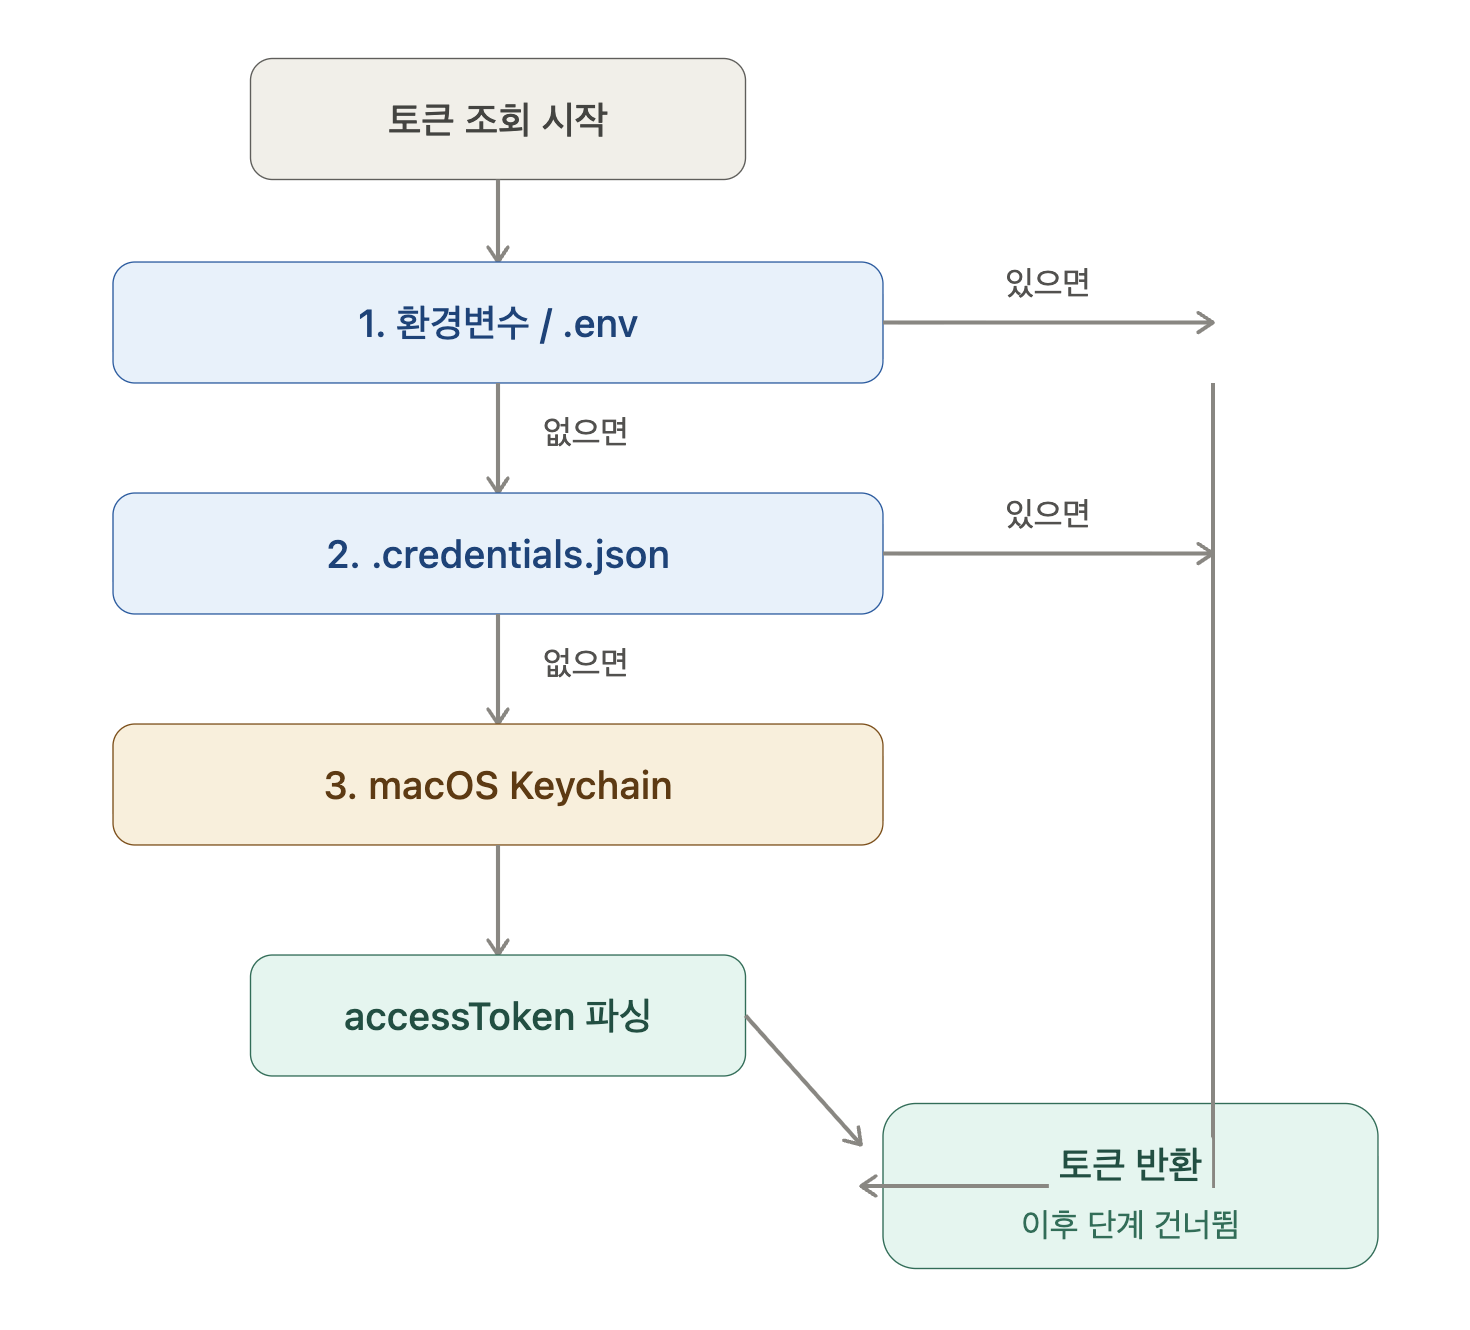
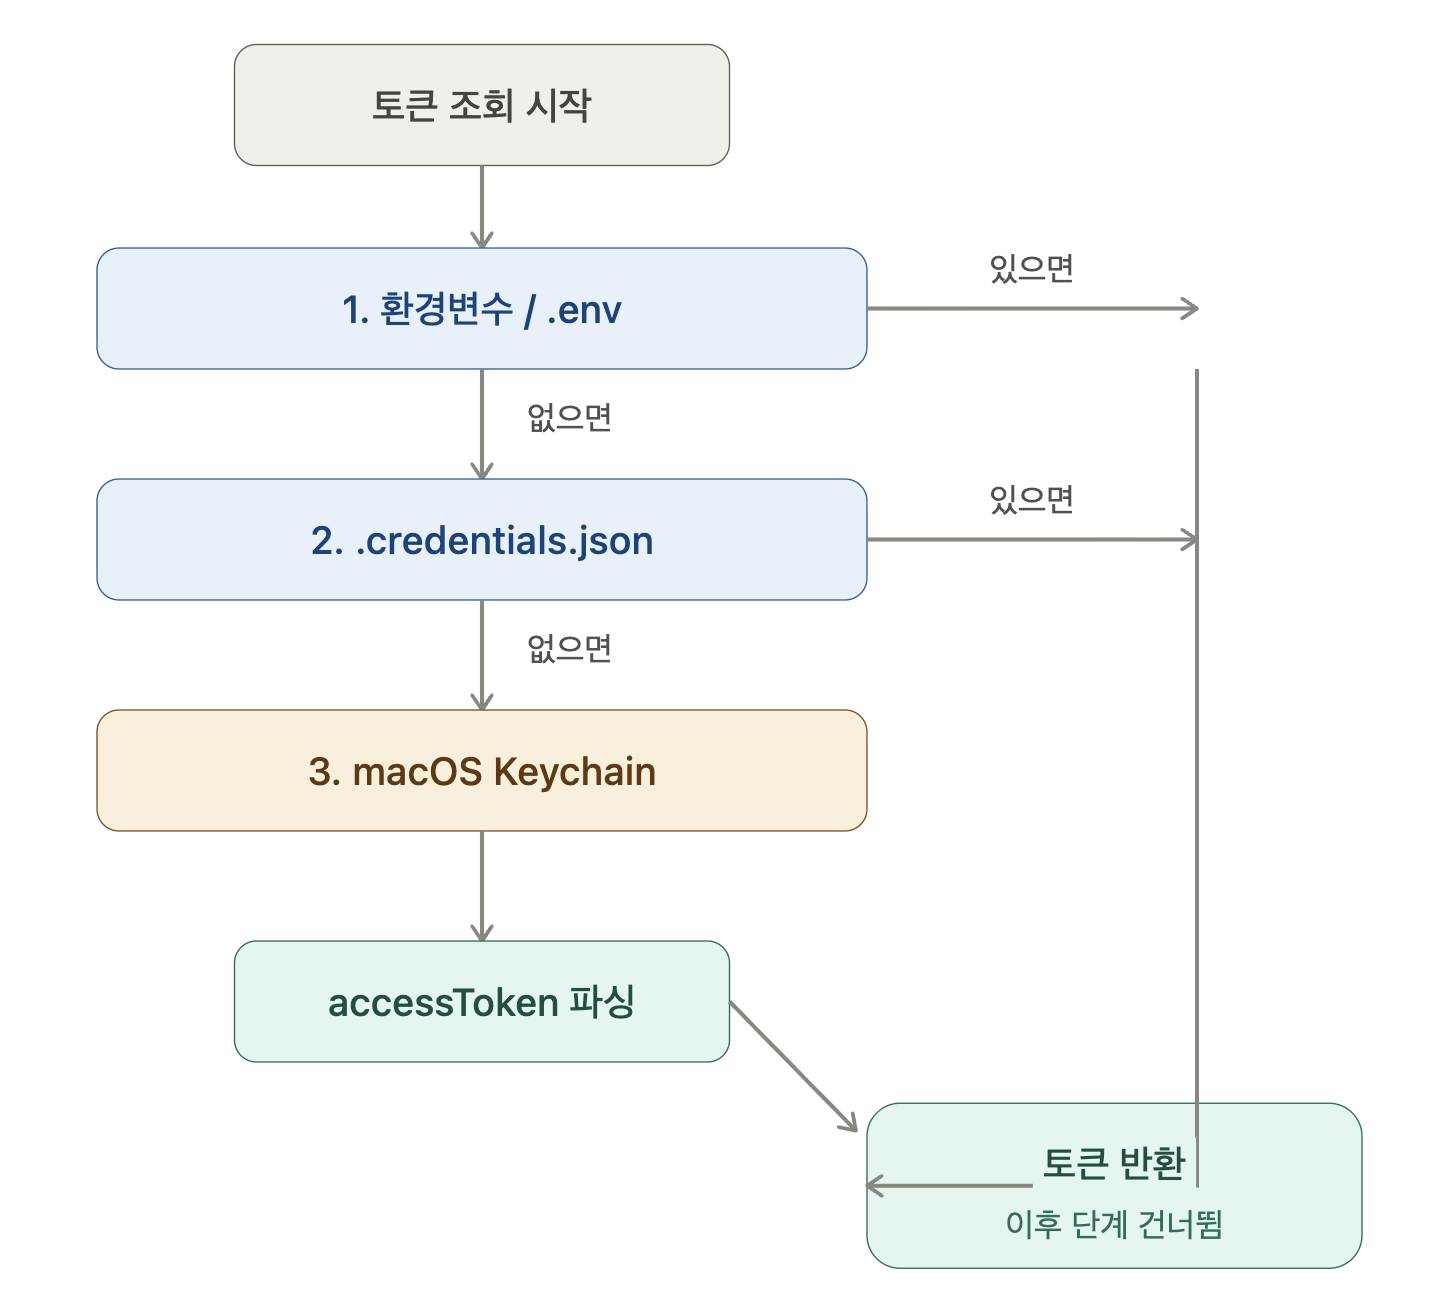
💄 style: claude-log 토큰 우선순위 다이어그램 이미지 교체

diff --git a/app/projects/projects.ts b/app/projects/projects.ts
@@ -195,7 +195,7 @@ export const projects: Project[] = [
           "호출당 과금 없이, 이미 발급된 로그인 토큰을 재사용해 실제 사용량을 조회하게 되었습니다.",
           "위젯 값이 /usage·Claude 앱·웹과 일치해 신뢰할 수 있는 수치를 상주 표시합니다.",
         ],
-        image: { src: "/projects/claude-log-token-priority.png", w: 1470, h: 1330 },
+        image: { src: "/projects/claude-log-token-priority.png", w: 1436, h: 1310 },
       },
       {
         title: "단일 동작에서 발생하는 사용량 조회 오류 메시지 해결",